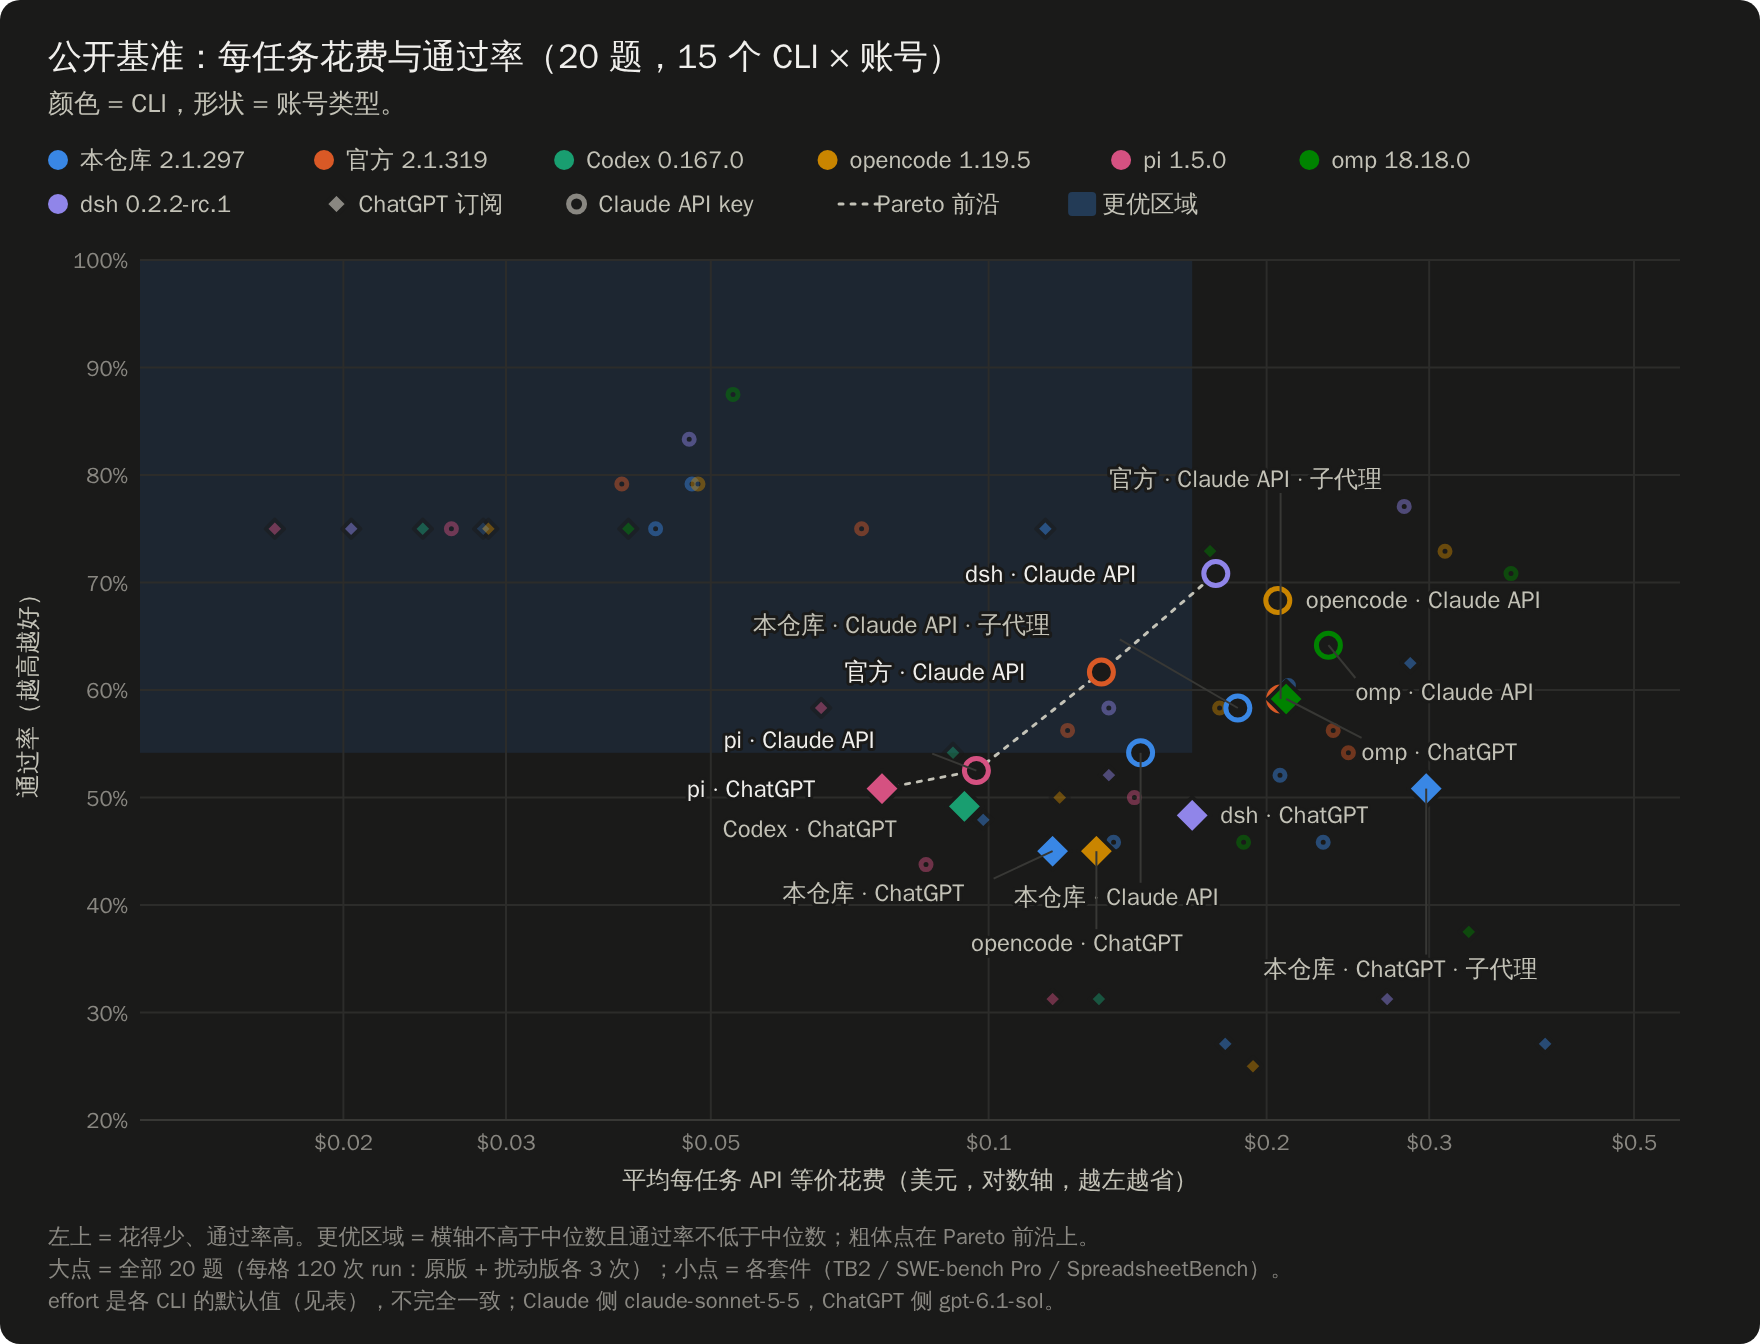
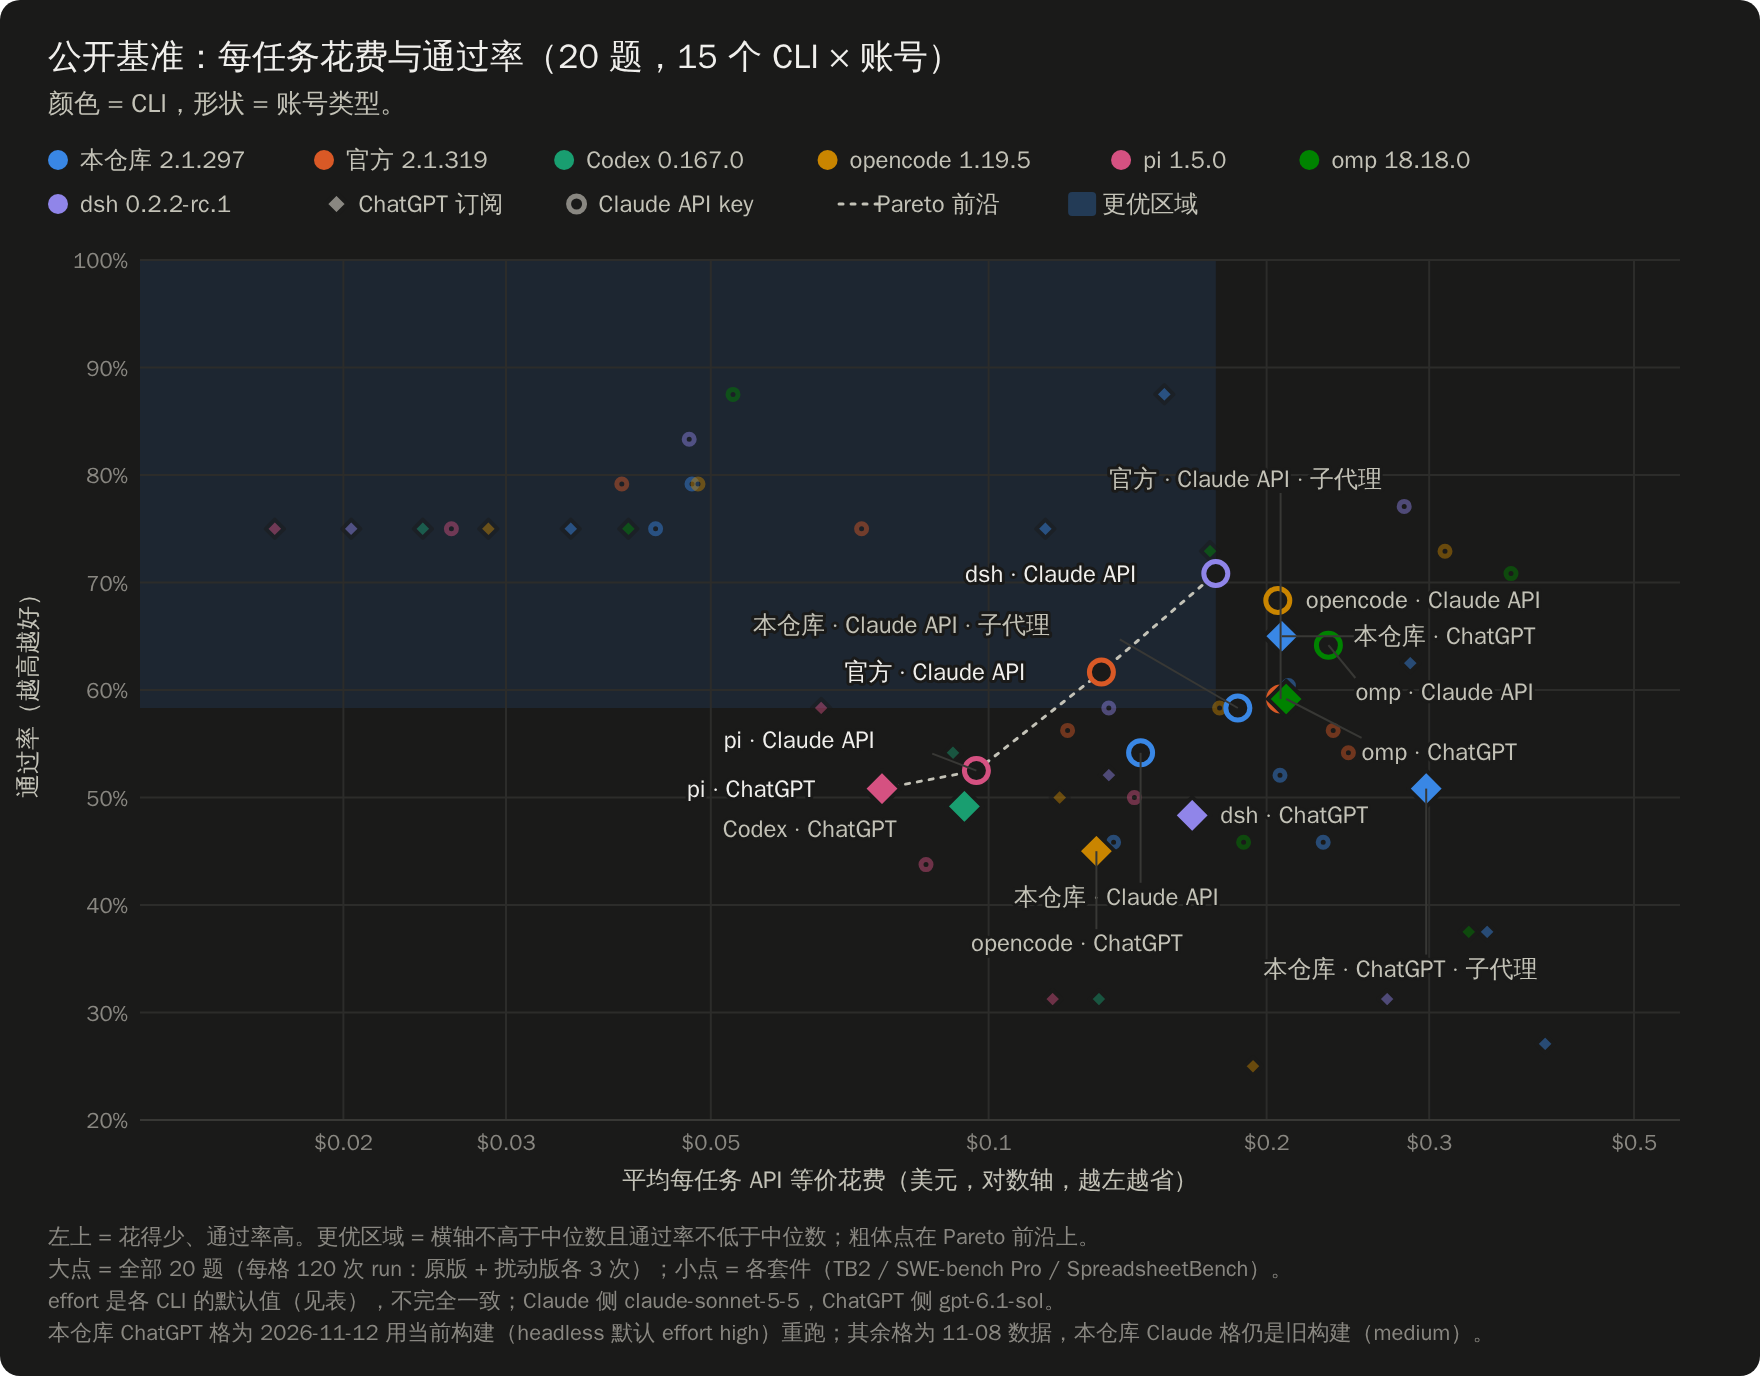
docs: public benchmark fork ChatGPT cell from the current build (#1283)
The fork's ChatGPT cell was rerun on 2026-11-12 with dev 1ebf7a1
(headless effort high, #1097): 65.0% instead of 45.0%. Fork Claude
cells stay at the Nov 8 build and are labelled so.

Claude-Session: https://claude.ai/code/session_01SizhdUSXy8v8Meojmi2sov

diff --git a/site/src/benchmark.html b/site/src/benchmark.html
@@ -143,26 +143,26 @@
   <p class="hant">共 1,800 次 run：20 題 × 15 個 CLI/帳號格 × 原版與擾動版 × 每格 3 次，每次都在任務自己的容器裡、全新 HOME、關閉 web search。Claude 側用 <code>claude-sonnet-5-5</code>，ChatGPT 側用 <code>gpt-6.1-sol</code>，各 CLI 用自己的預設 effort。</p>
   <p class="hans">共 1,800 次 run：20 题 × 15 个 CLI/账号格 × 原版与扰动版 × 每格 3 次，每次都在任务自己的容器里、全新 HOME、关闭 web search。Claude 侧用 <code>claude-sonnet-5-5</code>，ChatGPT 侧用 <code>gpt-6.1-sol</code>，各 CLI 用自己的默认 effort。</p>
   <ul class="en">
-    <li><b>The model matters more than the CLI.</b> Claude side passes 61.1% (587/960), ChatGPT side 49.8% (418/840).</li>
-    <li><b>Best cells: dsh 70.8% and opencode 68.3%</b> on Claude, 16–18 points above pi. On ChatGPT only oh-my-pi (59.2%, default effort high) clearly leads.</li>
+    <li><b>The model matters more than the CLI.</b> Claude side passes 61.1% (587/960), ChatGPT side 52.6% (442/840).</li>
+    <li><b>Best cells: dsh 70.8% and opencode 68.3%</b> on Claude, 16–18 points above pi. On ChatGPT, oh-my-pi (59.2%, default effort high) led the other CLIs; a fixed-effort check shows its lead comes mostly from effort, not the harness.</li>
     <li><b>This fork vs official: 54.2% vs 61.7%</b>, paired −7.5 ± 4.4 pp, under 2 standard errors. Most of the gap is one task (make-mips-interpreter, 2/6 vs 6/6), with the same failure pi shows.</li>
-    <li><b>This fork vs Codex: 45.0% vs 49.2%</b>, paired −4.2 ± 3.4 pp, also not significant.</li>
+    <li><b>This fork vs Codex: 65.0% vs 49.2%</b>, paired +15.8 ± 8.1 pp. The fork's ChatGPT cell was run on 2026-11-12 with the current build, which defaults headless runs to effort high and asks the model to run tests and clean up before finishing (#1097); the other cells are from Nov 8. One task (custom-memory-heap-crash) has passed in every ChatGPT cell since Nov 10 but rarely did on Nov 8; without it the lead over Codex is 11.4 points. The fork's Claude cells are still the Nov 8 build.</li>
     <li>The fork's longer average time (196 s vs 113 s) came from <code>-p</code> waiting on a background Bash task (#1071), fixed after this run.</li>
     <li>Perturbed SWE-bench Pro scores 8.3 points lower; TB2 and SpreadsheetBench do not move. That could be recall or harder renamed code, so it is inconclusive.</li>
   </ul>
   <ul class="hant">
-    <li><b>模型差距比 CLI 差距大。</b>Claude 側通過 61.1%（587/960），ChatGPT 側 49.8%（418/840）。</li>
-    <li><b>最好的格是 dsh 70.8% 與 opencode 68.3%</b>（Claude 側），比 pi 高 16–18 個百分點。ChatGPT 側只有 oh-my-pi（59.2%，預設 effort high）明顯領先。</li>
+    <li><b>模型差距比 CLI 差距大。</b>Claude 側通過 61.1%（587/960），ChatGPT 側 52.6%（442/840）。</li>
+    <li><b>最好的格是 dsh 70.8% 與 opencode 68.3%</b>（Claude 側），比 pi 高 16–18 個百分點。ChatGPT 側 oh-my-pi（59.2%，預設 effort high）領先其他 CLI；固定 effort 的補充實驗顯示它的領先主要來自 effort，不是 harness。</li>
     <li><b>本分支 vs 官方：54.2% vs 61.7%</b>，逐題配對差 −7.5 ± 4.4 pp，不到 2 個標準誤。差距主要來自一題（make-mips-interpreter，2/6 vs 6/6），失敗方式和 pi 相同。</li>
-    <li><b>本分支 vs Codex：45.0% vs 49.2%</b>，配對差 −4.2 ± 3.4 pp，同樣不顯著。</li>
+    <li><b>本分支 vs Codex：65.0% vs 49.2%</b>，配對差 +15.8 ± 8.1 pp。本分支 ChatGPT 格在 2026-11-12 用目前的構建跑：headless 預設 effort high，並要求結束前跑測試、清掉建置產物（#1097）；其他格是 11-08 的資料。custom-memory-heap-crash 一題從 11-10 起在所有 ChatGPT 格幾乎都會過，11-08 時很少過；扣掉這題，對 Codex 仍高 11.4 個百分點。本分支的 Claude 格仍是 11-08 的構建。</li>
     <li>本分支平均用時較長（196 秒 vs 113 秒），原因是 <code>-p</code> 會等背景 Bash 任務（#1071），已在這次跑完後修好。</li>
     <li>SWE-bench Pro 擾動版低 8.3 個百分點，TB2 與 SpreadsheetBench 沒有差別。可能是模型記得原題，也可能是改名後更難，無法判斷。</li>
   </ul>
   <ul class="hans">
-    <li><b>模型差距比 CLI 差距大。</b>Claude 侧通过 61.1%（587/960），ChatGPT 侧 49.8%（418/840）。</li>
-    <li><b>最好的格是 dsh 70.8% 与 opencode 68.3%</b>（Claude 侧），比 pi 高 16–18 个百分点。ChatGPT 侧只有 oh-my-pi（59.2%，默认 effort high）明显领先。</li>
+    <li><b>模型差距比 CLI 差距大。</b>Claude 侧通过 61.1%（587/960），ChatGPT 侧 52.6%（442/840）。</li>
+    <li><b>最好的格是 dsh 70.8% 与 opencode 68.3%</b>（Claude 侧），比 pi 高 16–18 个百分点。ChatGPT 侧 oh-my-pi（59.2%，默认 effort high）领先其他 CLI；固定 effort 的补充实验显示它的领先主要来自 effort，不是 harness。</li>
     <li><b>本分支 vs 官方：54.2% vs 61.7%</b>，逐题配对差 −7.5 ± 4.4 pp，不到 2 个标准误。差距主要来自一题（make-mips-interpreter，2/6 vs 6/6），失败方式和 pi 相同。</li>
-    <li><b>本分支 vs Codex：45.0% vs 49.2%</b>，配对差 −4.2 ± 3.4 pp，同样不显著。</li>
+    <li><b>本分支 vs Codex：65.0% vs 49.2%</b>，配对差 +15.8 ± 8.1 pp。本分支 ChatGPT 格在 2026-11-12 用当前的构建跑：headless 默认 effort high，并要求结束前跑测试、清掉构建产物（#1097）；其他格是 11-08 的数据。custom-memory-heap-crash 一题从 11-10 起在所有 ChatGPT 格几乎都会过，11-08 时很少过；扣掉这题，对 Codex 仍高 11.4 个百分点。本分支的 Claude 格仍是 11-08 的构建。</li>
     <li>本分支平均用时较长（196 秒 vs 113 秒），原因是 <code>-p</code> 会等背景 Bash 任务（#1071），已在这次跑完后修好。</li>
     <li>SWE-bench Pro 扰动版低 8.3 个百分点，TB2 与 SpreadsheetBench 没有差别。可能是模型记得原题，也可能是改名后更难，无法判断。</li>
   </ul>
@@ -210,10 +210,10 @@
     <thead><tr><th><span class="en">Paired comparison (same tasks)</span><span class="hant">逐題配對比較</span><span class="hans">逐题配对比较</span></th><th><span class="en">Difference</span><span class="hant">差距</span><span class="hans">差距</span></th></tr></thead>
     <tbody>
       <tr><td><span class="en">This fork vs official (Claude key)</span><span class="hant">本分支 vs 官方（Claude key）</span><span class="hans">本分支 vs 官方（Claude key）</span></td><td>−7.5 ± 4.4 pp</td></tr>
-      <tr><td><span class="en">This fork vs Codex (ChatGPT)</span><span class="hant">本分支 vs Codex（ChatGPT）</span><span class="hans">本分支 vs Codex（ChatGPT）</span></td><td>−4.2 ± 3.4 pp</td></tr>
+      <tr><td><span class="en">This fork (Nov 12 build) vs Codex (ChatGPT)</span><span class="hant">本分支（11-12 構建）vs Codex（ChatGPT）</span><span class="hans">本分支（11-12 构建）vs Codex（ChatGPT）</span></td><td>+15.8 ± 8.1 pp</td></tr>
       <tr><td><span class="en">This fork + 3 subagents vs single (Claude)</span><span class="hant">本分支 + 3 個 subagent vs 單代理（Claude）</span><span class="hans">本分支 + 3 个 subagent vs 单代理（Claude）</span></td><td>+4.2 ± 7.5 pp</td></tr>
       <tr><td><span class="en">Official + 3 subagents vs single</span><span class="hant">官方 + 3 個 subagent vs 單代理</span><span class="hans">官方 + 3 个 subagent vs 单代理</span></td><td>−2.5 ± 4.4 pp</td></tr>
-      <tr><td><span class="en">This fork + 3 subagents vs single (ChatGPT)</span><span class="hant">本分支 + 3 個 subagent vs 單代理（ChatGPT）</span><span class="hans">本分支 + 3 个 subagent vs 单代理（ChatGPT）</span></td><td>+5.8 ± 5.0 pp</td></tr>
+      <tr><td><span class="en">This fork + 3 subagents vs single (ChatGPT, both Nov 8 build)</span><span class="hant">本分支 + 3 個 subagent vs 單代理（ChatGPT，皆 11-08 構建）</span><span class="hans">本分支 + 3 个 subagent vs 单代理（ChatGPT，皆 11-08 构建）</span></td><td>+5.8 ± 5.0 pp</td></tr>
       <tr><td><span class="en">dsh vs pi (Claude)</span><span class="hant">dsh vs pi（Claude）</span><span class="hans">dsh vs pi（Claude）</span></td><td>+18.3 ± 6.2 pp</td></tr>
       <tr><td><span class="en">opencode vs pi (Claude)</span><span class="hant">opencode vs pi（Claude）</span><span class="hans">opencode vs pi（Claude）</span></td><td>+15.8 ± 5.5 pp</td></tr>
       <tr><td><span class="en">oh-my-pi vs pi (Claude)</span><span class="hant">oh-my-pi vs pi（Claude）</span><span class="hans">oh-my-pi vs pi（Claude）</span></td><td>+11.7 ± 6.5 pp</td></tr>

diff --git a/docs/features/cache-benchmark.md b/docs/features/cache-benchmark.md
@@ -502,23 +502,23 @@ dsh 0.2.2-rc.1 用 headless 模式（`dsh --profile headless --json`），模型
 | oh-my-pi 18.18.0 | Claude API key | high | 64.2% | 22 / 34 / 21 | 386k（30k–5.0M） | 92.0% | $0.233 |
 | 官方 Claude Code 2.1.319 | Claude API key | medium | 61.7% | 27 / 28 / 19 | 221k（36k–2.0M） | 92.2% | $0.132 |
 | 官方 + 子代理 | Claude API key | medium | 59.2% | 27 / 26 / 18 | 307k（37k–1.7M） | 89.4% | $0.207 |
-| 本仓库 + 子代理 | Claude API key | medium | 58.3% | 29 / 22 / 19 | 253k（48k–1.3M） | 86.7% | $0.186 |
-| 本仓库 | Claude API key | medium | 54.2% | 22 / 25 / 18 | 234k（34k–2.1M） | 90.4% | $0.146 |
+| 本仓库 + 子代理（11-08 构建） | Claude API key | medium | 58.3% | 29 / 22 / 19 | 253k（48k–1.3M） | 86.7% | $0.186 |
+| 本仓库（11-08 构建） | Claude API key | medium | 54.2% | 22 / 25 / 18 | 234k（34k–2.1M） | 90.4% | $0.146 |
 | pi 1.5.0 | Claude API key | low | 52.5% | 21 / 24 / 18 | 98k（6k–1.0M） | 85.7% | $0.097 |
-| oh-my-pi 18.18.0 | ChatGPT 账号 | high | **59.2%** | 35 / 18 / 18 | 627k（22k–3.4M） | 93.7% | $0.210 |
-| 本仓库 + 子代理 | ChatGPT 账号 | low | 50.8% | 30 / 13 / 18 | 783k（75k–3.8M） | 90.3% | $0.298 |
+| 本仓库（11-12 构建） | ChatGPT 账号 | high | **65.0%** | 42 / 18 / 18 | 581k（30k–3.0M） | 93.3% | $0.208 |
+| oh-my-pi 18.18.0 | ChatGPT 账号 | high | 59.2% | 35 / 18 / 18 | 627k（22k–3.4M） | 93.7% | $0.210 |
+| 本仓库 + 子代理（11-08 构建） | ChatGPT 账号 | low | 50.8% | 30 / 13 / 18 | 783k（75k–3.8M） | 90.3% | $0.298 |
 | pi 1.5.0 | ChatGPT 账号 | medium | 50.8% | 28 / 15 / 18 | 145k（7k–844k） | 88.4% | $0.077 |
 | Codex CLI 0.167.0 | ChatGPT 账号 | low | 49.2% | 26 / 15 / 18 | 247k（39k–868k） | 91.2% | $0.094 |
 | dsh 0.2.2-rc.1 | ChatGPT 账号 | low | 48.3% | 25 / 15 / 18 | 534k（0–3.2M） | 93.4% | $0.166 |
-| 本仓库 | ChatGPT 账号 | low | 45.0% | 23 / 13 / 18 | 311k（31k–1.3M） | 90.8% | $0.117 |
 | opencode 1.19.5 | ChatGPT 账号 | low | 45.0% | 24 / 12 / 18 | 343k（21k–1.4M） | 91.6% | $0.131 |
 
-套件列是通过次数，分母分别为 48 / 48 / 24。模型：Claude 侧 `claude-sonnet-5-5`，ChatGPT 侧 `gpt-6.1-sol`；effort 是各 CLI 的默认值，没有统一。「+ 子代理」格在提示末尾要求先并行开至少两个子代理，最后自己检查合并结果。
+套件列是通过次数，分母分别为 48 / 48 / 24。模型：Claude 侧 `claude-sonnet-5-5`，ChatGPT 侧 `gpt-6.1-sol`；effort 是各 CLI 的默认值，没有统一。「11-12 构建」那一格是 2026-11-12 用当前 dev（`1ebf7a1`，headless 默认 effort high，加收尾句，#1097）跑的，其余格是 11-08 的数据；本仓库 Claude 格仍是 11-08 的构建（medium），之后没有条件重跑。「+ 子代理」格在提示末尾要求先并行开至少两个子代理，最后自己检查合并结果。
 
-- **模型差距大于 CLI 差距**：Claude 侧 8 格合计 61.1%，ChatGPT 侧 7 格 49.8%。SWE-bench Pro 上 ChatGPT 侧 7 格都只有 25–38%；openlibrary-89 与 ansible 两题 Claude 侧大多通过，ChatGPT 侧 7 格全部 0/6。
-- **Claude 侧 dsh 与 opencode 最好**，比 pi 高 18.3 ± 6.2 与 15.8 ± 5.5 个百分点（逐题配对差 ± 标准误）。ChatGPT 侧只有 oh-my-pi 明显领先，它默认 effort high。
-- **本仓库对官方 −7.5 ± 4.4 个百分点，对 Codex −4.2 ± 3.4**，都不到 2 个标准误。Claude 侧差距主要在 make-mips-interpreter（2/6 对 6/6），失败方式与 pi 的 4 次失败相同。
-- **子代理**：本仓库 Claude +4.2、ChatGPT +5.8、官方 −2.5 个百分点，花费分别是单代理的 1.27×、2.54×、1.56×；都在噪声范围内。
+- **模型差距大于 CLI 差距**：Claude 侧 8 格合计 61.1%，ChatGPT 侧 7 格 52.6%。SWE-bench Pro 上 ChatGPT 侧 7 格都只有 25–38%；openlibrary-89 与 ansible 两题 Claude 侧大多通过，ChatGPT 侧 7 格全部 0/6。
+- **Claude 侧 dsh 与 opencode 最好**，比 pi 高 18.3 ± 6.2 与 15.8 ± 5.5 个百分点（逐题配对差 ± 标准误）。ChatGPT 侧本仓库（65.0%）与 oh-my-pi（59.2%）领先，两者都是 effort high；用固定 effort 补跑的 3 题（pi、oh-my-pi、dsh 各 low / high）显示 ChatGPT 侧 effort 比 harness 更重要：pi 从 5/18 到 15/18，oh-my-pi 从 8/18 到 18/18。
+- **本仓库对官方 −7.5 ± 4.4 个百分点**（11-08 构建），不到 2 个标准误，差距主要在 make-mips-interpreter（2/6 对 6/6），失败方式与 pi 的 4 次失败相同。**本仓库（11-12 构建）对 Codex +15.8 ± 8.1**，赢在 polyglot 两题（6/6 对 0–1/6，结束前清掉构建产物）、nodebb 与 custom-memory-heap-crash。heap-crash 从 11-10 起在 ChatGPT 侧各格几乎都会过，11-08 时很少过；扣掉这题对 Codex 仍是 +11.4。
+- **子代理**（11-08 构建）：本仓库 Claude +4.2、ChatGPT +5.8、官方 −2.5 个百分点，花费分别是单代理的 1.27×、2.54×、1.56×；都在噪声范围内。
 - **本仓库 Claude 侧平均用时 196s，官方 113s**：`-p` 在后台 Bash 任务不结束时不退出（mailman 题 6/6），已在 #1071 修复；本轮用的是修复前的构建。
 - **防污染**：每题另跑一份改写过的扰动版（换措辞、名称、路径、端口与期望输出，评分同步更新，oracle 全部通过）。TB2 原版 54.7%、扰动 55.0%，Spreadsheet 相同；SWE-bench Pro 扰动版低 8.3 个百分点（50.3% 对 41.9%，主要是 flipt 12 → 1）。这可能来自模型记得原版，也可能是改名后更难，本设计分不开。
 - **区分度**：20 题里 5 题全格全过或全不过（3 题 Spreadsheet、vuls、navidrome），差别来自其余 15 题。每格 120 次，单格通过率的标准误约 4.5 个百分点。
